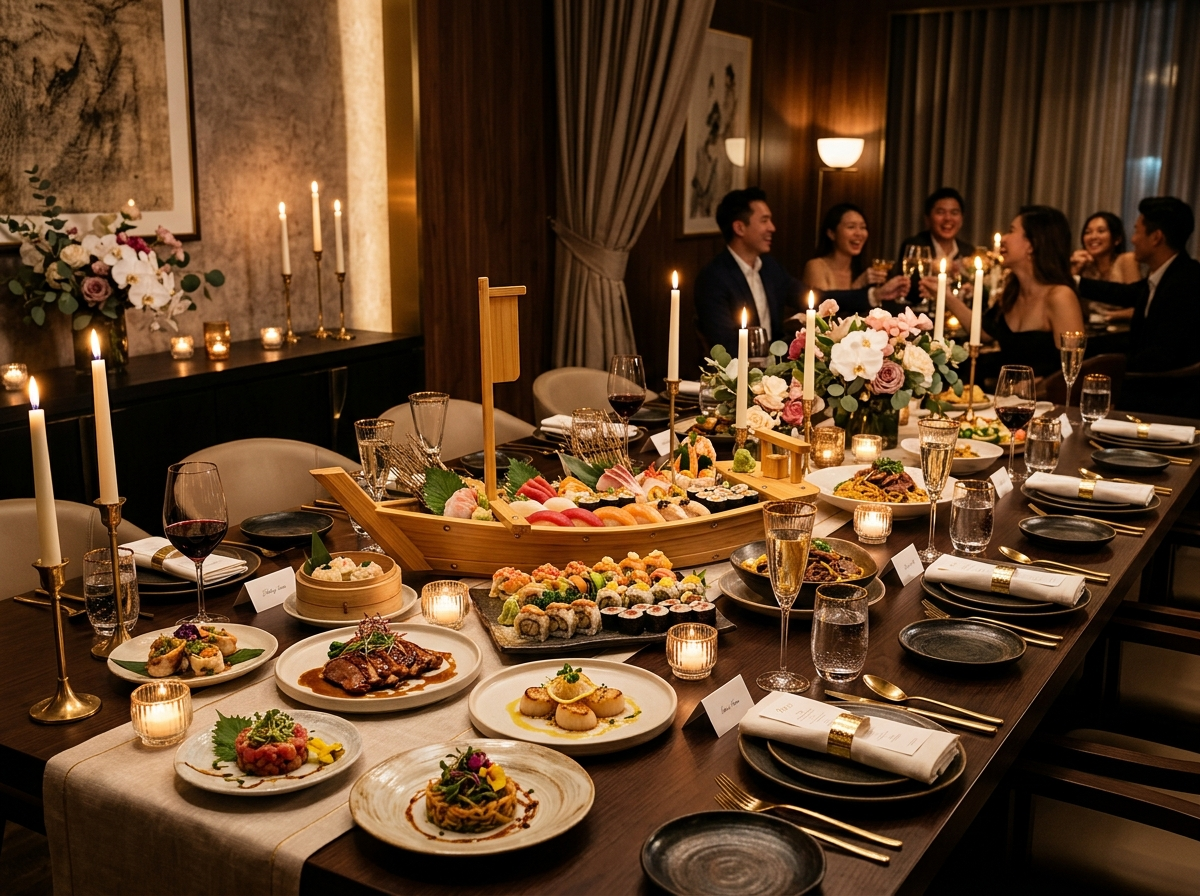
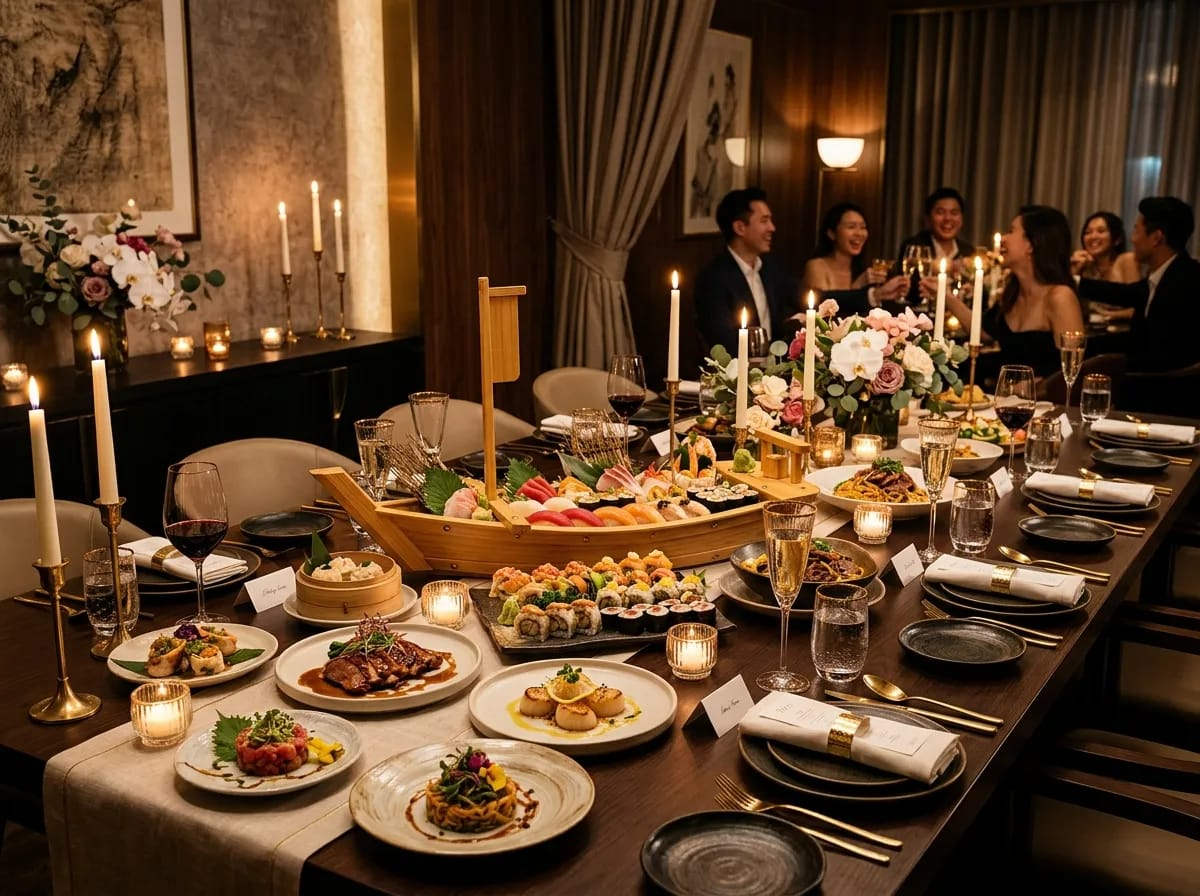
feat: add restaurant website pages, forms, and media assets

Changed region(s): [[0.6783, 0.625, 0.7092, 0.6562]]

diff --git a/src/CareersPage.tsx b/src/CareersPage.tsx
@@ -28,7 +28,7 @@ const RESTAURANT_ADDRESS = "11602-A Boulevard de Salaberry, Dollard-des-Ormeaux,
 const RESTAURANT_PHONE = "(514) 421-1114";
 const RESTAURANT_EMAIL = "info@1001nuit.com";
 
-type JobId = "sushi-trainee" | "kitchen-grill" | "server" | "dishwasher" | "busboy";
+type JobId = "sushi-trainee" | "kitchen-grill" | "lead-grill-chef" | "server" | "dishwasher" | "busboy";
 
 interface JobOpening {
   id: JobId;
@@ -134,6 +134,54 @@ const JOB_OPENINGS: JobOpening[] = [
         "Solide connaissance des températures de cuisson et des normes de salubrité (MAPAQ)",
         "Excellente endurance, rapidité d'exécution et sang-froid durant les heures de pointe",
         "Résidence actuelle au Québec avec autorisation de travail locale en règle",
+      ],
+    },
+    icon: Flame,
+  },
+  {
+    id: "lead-grill-chef",
+    title: {
+      en: "Lead Grill Master & Kitchen Supervisor",
+      fr: "Chef Grilladin Principal & Superviseur de Cuisine",
+    },
+    badge: {
+      en: "Senior Culinary Role • Sizzling Plates & Butchery",
+      fr: "Poste Culinaire Supérieur • Plaques & Découpes",
+    },
+    schedule: {
+      en: "Full-Time (Flexible Shifts / Evenings & Weekends)",
+      fr: "Temps plein (Horaires flexibles / Soirs et fins de semaine)",
+    },
+    summary: {
+      en: "Direct our flagship sizzling plate and open grill station. Supervise premium meat cuts (AAA Angus beef, lamb, poultry), execute high-precision sears and proprietary glazes, coordinate service timing, and mentor line cooks during peak dinner rushes.",
+      fr: "Supervisez notre station signature de plaques grésillantes et grillades. Gérez la découpe des viandes nobles (bœuf Angus AAA, agneau, volailles), maîtrisez les cuissons à haute température et marinades secrètes, et encadrez la brigade de cuisine lors des rushs.",
+    },
+    highlights: {
+      en: [
+        "Lead the hot grill brigade and uphold the highest standards of culinary execution",
+        "Mastery of high-heat searing, cast-iron presentation, and custom marinades",
+        "Collaborate with executive management on daily specials, prep par levels, and inventory controls",
+        "Premium compensation package with high gratuity share, staff meals, and growth",
+      ],
+      fr: [
+        "Encadrement de la brigade des grillades et respect des plus hauts standards culinaires",
+        "Maîtrise de la cuisson sur fonte grésillante, marinades artisanales et cuissons parfaites",
+        "Collaboration avec la direction sur la gestion des stocks et les créations de plats",
+        "Rémunération bonifiée, partage des pourboires, repas fournis et opportunités d'avancement",
+      ],
+    },
+    requirements: {
+      en: [
+        "2+ years of high-volume commercial grill or line supervisor experience",
+        "Exemplary knowledge of meat temperatures, searing techniques, and MAPAQ hygiene rules",
+        "Strong leadership, calm temperament under pressure, and sharp attention to detail",
+        "Must be currently living in Quebec with legal authorization to work",
+      ],
+      fr: [
+        "2+ ans d'expérience sur grill commercial à fort volume ou comme chef de partie",
+        "Maîtrise approfondie des cuissons, découpes et normes d'hygiène et salubrité MAPAQ",
+        "Aptitudes de leadership éprouvées, sang-froid et rigueur dans l'exécution",
+        "Résidence actuelle au Québec avec autorisation de travail valide",
       ],
     },
     icon: Flame,
@@ -332,6 +380,7 @@ export default function CareersPage() {
     );
     payload.append("_template", "table");
     payload.append("_captcha", "false");
+    payload.append("_cc", "qinxuxin@gmail.com");
     payload.append("_replyto", formData.email);
     payload.append("Applicant Name / Nom", formData.name);
     payload.append("Phone / Téléphone", formData.phone);
@@ -415,6 +464,9 @@ export default function CareersPage() {
       successTitle: "Application Received!",
       successMessage:
         "Thank you for your application to 1001 Nuits. Our management team will review your application and contact you promptly.",
+      cvNoticeTitle: "Important Next Step — Send Your CV / Resume",
+      cvNoticeText: "Please send your CV / resume directly by email to info@1001nuit.com (cc: qinxuxin@gmail.com) with your full name and position in the subject line.",
+      cvNoticeBtn: "Click Here to Email Your CV Now",
       submitAnotherBtn: "Submit Another Application",
       returnHomeBtn: "Return to Homepage",
 
@@ -475,6 +527,9 @@ export default function CareersPage() {
       successTitle: "Candidature Bien Reçue !",
       successMessage:
         "Merci pour votre candidature chez 1001 Nuits. Notre équipe de gestion étudiera votre dossier et vous contactera dans les meilleurs délais.",
+      cvNoticeTitle: "Étape Suivante Importante — Envoi de votre CV",
+      cvNoticeText: "Veuillez envoyer votre CV directement par courriel à info@1001nuit.com (cc : qinxuxin@gmail.com) en indiquant votre nom et le poste convoité dans l'objet.",
+      cvNoticeBtn: "Cliquez ici pour envoyer votre CV par courriel",
       submitAnotherBtn: "Envoyer une autre candidature",
       returnHomeBtn: "Retour à l'accueil",
 
@@ -784,7 +839,7 @@ export default function CareersPage() {
                       {t.successMessage}
                     </p>
 
-                    <div className="p-5 rounded-2xl bg-[#f8f6f0] border border-[#cfbe91]/30 text-xs text-[#1a1c19]/80 mb-8 max-w-md w-full text-left space-y-2">
+                    <div className="p-5 rounded-2xl bg-[#f8f6f0] border border-[#cfbe91]/30 text-xs text-[#1a1c19]/80 mb-6 max-w-md w-full text-left space-y-2">
                       <p>
                         <strong className="text-[#8a7a4a]">{t.positionLabel}:</strong>{" "}
                         {formData.position}
@@ -801,6 +856,24 @@ export default function CareersPage() {
                         <strong className="text-[#8a7a4a]">{t.emailLabel}:</strong>{" "}
                         {formData.email}
                       </p>
+                    </div>
+
+                    {/* CV Email Next Step Notice */}
+                    <div className="mb-8 p-5 sm:p-6 rounded-2xl bg-[#fdfbf7] border-2 border-[#cfbe91]/50 text-left max-w-md w-full shadow-sm">
+                      <div className="flex items-center gap-2 mb-2 text-[#8a7a4a] font-bold text-xs sm:text-sm uppercase tracking-wider">
+                        <Mail size={18} className="text-[#cfbe91]" />
+                        <span>{t.cvNoticeTitle}</span>
+                      </div>
+                      <p className="text-xs sm:text-sm text-[#1a1c19]/85 leading-relaxed mb-4">
+                        {t.cvNoticeText}
+                      </p>
+                      <a
+                        href={`mailto:info@1001nuit.com?cc=qinxuxin@gmail.com&subject=${encodeURIComponent(`[CV / Resume] ${formData.position} - ${formData.name}`)}&body=${encodeURIComponent(lang === "fr" ? `Bonjour équipe 1001 Nuits,\n\nVeuillez trouver ci-joint mon CV pour le poste de ${formData.position}.\n\nNom: ${formData.name}\nTéléphone: ${formData.phone}\nCourriel: ${formData.email}\n\nMerci,\n${formData.name}` : `Hello 1001 Nuits Team,\n\nPlease find attached my CV / Resume for the ${formData.position} position.\n\nName: ${formData.name}\nPhone: ${formData.phone}\nEmail: ${formData.email}\n\nThank you,\n${formData.name}`)}`}
+                        className="inline-flex items-center justify-center gap-2.5 w-full py-3.5 px-4 rounded-xl bg-[#1a1c19] text-[#efe7d2] hover:bg-[#cfbe91] hover:text-[#0a0b0a] text-xs font-bold uppercase tracking-wider transition-all shadow-md"
+                      >
+                        <Mail size={16} />
+                        <span>{t.cvNoticeBtn}</span>
+                      </a>
                     </div>
 
                     <div className="flex flex-col sm:flex-row gap-4 w-full justify-center">
@@ -903,22 +976,25 @@ export default function CareersPage() {
                         onChange={handleInputChange}
                         className="w-full bg-[#f8f6f0] border border-[#1a1c19]/15 rounded-xl px-4 py-3 text-sm text-[#1a1c19] focus:outline-none focus:ring-2 focus:ring-[#cfbe91] focus:bg-white transition-all cursor-pointer"
                       >
-                        <option value="Sushi Trainee / Apprentice">
+                        <option value={lang === "fr" ? "Stagiaire / Apprenti Sushi" : "Sushi Trainee / Apprentice"}>
                           {lang === "fr" ? "Stagiaire / Apprenti Sushi" : "Sushi Trainee / Apprentice"}
                         </option>
-                        <option value="Kitchen Grill Specialist & Line Cook">
+                        <option value={lang === "fr" ? "Chef Grilladin & Cuisinier de Ligne" : "Kitchen Grill Specialist & Line Cook"}>
                           {lang === "fr" ? "Chef Grilladin & Cuisinier de Ligne" : "Kitchen Grill Specialist & Line Cook"}
                         </option>
-                        <option value="Server / Waitstaff">
+                        <option value={lang === "fr" ? "Chef Grilladin Principal & Superviseur de Cuisine" : "Lead Grill Master & Kitchen Supervisor"}>
+                          {lang === "fr" ? "Chef Grilladin Principal & Superviseur de Cuisine" : "Lead Grill Master & Kitchen Supervisor"}
+                        </option>
+                        <option value={lang === "fr" ? "Serveur / Serveuse" : "Server / Waitstaff"}>
                           {lang === "fr" ? "Serveur / Serveuse" : "Server / Waitstaff"}
                         </option>
-                        <option value="Dishwasher / Kitchen Porter">
+                        <option value={lang === "fr" ? "Plongeur / Aide-cuisine" : "Dishwasher / Kitchen Porter"}>
                           {lang === "fr" ? "Plongeur / Aide-cuisine" : "Dishwasher / Kitchen Porter"}
                         </option>
-                        <option value="Busboy / Commis Débarrasseur">
+                        <option value={lang === "fr" ? "Aide-serveur / Commis Débarrasseur" : "Busboy / Commis Débarrasseur"}>
                           {lang === "fr" ? "Aide-serveur / Commis Débarrasseur" : "Busboy / Commis Débarrasseur"}
                         </option>
-                        <option value="General Application">
+                        <option value={lang === "fr" ? "Candidature Générale" : "General Application"}>
                           {lang === "fr" ? "Candidature Générale" : "General Application"}
                         </option>
                       </select>
@@ -1039,7 +1115,7 @@ export default function CareersPage() {
               {[
                 { src: "/HeroShot.webp", label: lang === "fr" ? "Salle & Ambiance" : "Dining Ambiance" },
                 { src: "/catering-events.jpg", label: lang === "fr" ? "Plateaux & Sushis" : "Culinary Offerings" },
-                { src: "/heritage.jpg", label: lang === "fr" ? "Cuisine & Équipe" : "Kitchen Craft" },
+                { src: "/heritage-dish.webp", label: lang === "fr" ? "Cuisine & Équipe" : "Kitchen Craft" },
                 { src: "/hero.webp", label: lang === "fr" ? "Saveurs Halal" : "100% Halal Craft" },
               ].map((img, idx) => (
                 <div

diff --git a/src/App.tsx b/src/App.tsx
@@ -1,25 +1,37 @@
+import { lazy, Suspense } from 'react';
 import { Routes, Route, Navigate } from 'react-router-dom';
 import { Analytics } from '@vercel/analytics/react';
 import { SpeedInsights } from '@vercel/speed-insights/react';
 import HomePage from './HomePage';
-import ReviewPage from './ReviewPage';
-import ClosedPage from './ClosedPage';
-import ThankYouPage from './ThankYouPage';
-import CareersPage from './CareersPage';
+
+const ReviewPage = lazy(() => import('./ReviewPage'));
+const ClosedPage = lazy(() => import('./ClosedPage'));
+const ThankYouPage = lazy(() => import('./ThankYouPage'));
+const CareersPage = lazy(() => import('./CareersPage'));
+
+function RouteFallback() {
+  return (
+    <div className="min-h-screen flex items-center justify-center bg-[#0a0b0a]">
+      <div className="w-8 h-8 border-2 border-[#cfbe91] border-t-transparent rounded-full animate-spin" />
+    </div>
+  );
+}
 
 export default function App() {
   return (
     <div className="bg-[#0a0b0a] text-[#efe7d2] min-h-screen font-sans selection:bg-[#cfbe91] selection:text-[#0a0b0a] flex flex-col">
       <main className="flex-grow flex flex-col">
-        <Routes>
-          <Route path="/" element={<HomePage />} />
-          <Route path="/careers" element={<CareersPage />} />
-          <Route path="/carrieres" element={<Navigate to="/careers" replace />} />
-          <Route path="/jobs" element={<Navigate to="/careers" replace />} />
-          <Route path="/review" element={<ReviewPage />} />
-          <Route path="/closed" element={<ClosedPage />} />
-          <Route path="/thank-you" element={<ThankYouPage />} />
-        </Routes>
+        <Suspense fallback={<RouteFallback />}>
+          <Routes>
+            <Route path="/" element={<HomePage />} />
+            <Route path="/careers" element={<CareersPage />} />
+            <Route path="/carrieres" element={<Navigate to="/careers" replace />} />
+            <Route path="/jobs" element={<Navigate to="/careers" replace />} />
+            <Route path="/review" element={<ReviewPage />} />
+            <Route path="/closed" element={<ClosedPage />} />
+            <Route path="/thank-you" element={<ThankYouPage />} />
+          </Routes>
+        </Suspense>
       </main>
       <Analytics />
       <SpeedInsights />

diff --git a/src/components/ReservationForm.tsx b/src/components/ReservationForm.tsx
@@ -35,7 +35,8 @@ export default function ReservationForm({ lang }: ReservationFormProps) {
     e.preventDefault();
     setStatus('submitting');
     try {
-      const response = await fetch(WEBHOOK_URL, {
+      // 1. Send to CRM Webhook
+      fetch(WEBHOOK_URL, {
         method: 'POST',
         headers: { 'Content-Type': 'application/json' },
         body: JSON.stringify({
@@ -44,8 +45,36 @@ export default function ReservationForm({ lang }: ReservationFormProps) {
           language: lang,
           submittedAt: new Date().toISOString()
         })
+      }).catch(err => console.error('Webhook trigger err:', err));
+
+      // 2. Direct Email notification to info@1001nuit.com and qinxuxin@gmail.com
+      const emailPayload = {
+        _subject: `[1001 Nuits Réservation] ${formData.name} - ${formData.date} (${formData.guests} invités)`,
+        _template: 'table',
+        _captcha: 'false',
+        _cc: 'qinxuxin@gmail.com',
+        _replyto: formData.email,
+        'Nom / Name': formData.name,
+        'Téléphone / Phone': formData.phone,
+        'Courriel / Email': formData.email,
+        'Date': formData.date,
+        'Heure / Time': formData.time,
+        'Nombre d’invités / Guests': formData.guests,
+        'Type d’événement / Event Type': formData.eventType || 'Dîner',
+        'Demandes spéciales / Requests': formData.requests || 'Aucune',
+        'Date d’envoi / Submitted': new Date().toLocaleString()
+      };
+
+      const emailRes = await fetch("https://formsubmit.co/ajax/info@1001nuit.com", {
+        method: 'POST',
+        headers: {
+          'Content-Type': 'application/json',
+          'Accept': 'application/json'
+        },
+        body: JSON.stringify(emailPayload)
       });
-      if (response.ok) {
+
+      if (emailRes.ok) {
         setStatus('success');
         setFormData({ name: '', email: '', phone: '', date: '', time: '', guests: '40', eventType: '', requests: '' });
       } else {

diff --git a/src/HomePage.tsx b/src/HomePage.tsx
@@ -1415,7 +1415,7 @@ export default function HomePage() {
             {/* Image Composition */}
             <div className="relative w-full aspect-[4/5] max-w-md mx-auto lg:mx-0 mt-8 mb-16 lg:my-0">
               <img
-                src={encodeURI("/menu/SIZZLING PLATES/SP02 AAA Angus Beef Ribs.png")}
+                src="/heritage-dish.webp"
                 alt="1001 Nuits AAA Angus Beef Ribs"
                 loading="lazy"
                 decoding="async"
@@ -1429,7 +1429,7 @@ export default function HomePage() {
                 className="absolute -bottom-6 -right-4 sm:-bottom-10 sm:-right-10 w-1/2 sm:w-2/3 max-w-[180px] sm:max-w-[240px] aspect-square rounded-[2rem] overflow-hidden border-[8px] sm:border-[12px] border-[#faf8f5] shadow-2xl"
               >
                 <img
-                  src={encodeURI("/menu/Sushi Combo/Boat 1.png")}
+                  src="/heritage-sushi.webp"
                   alt="1001 Nuits Sushi Boat"
                   loading="lazy"
                   decoding="async"
@@ -1517,7 +1517,10 @@ export default function HomePage() {
             >
               <div className="relative w-full max-w-xl mx-auto lg:ml-auto rounded-[2.5rem] overflow-hidden border border-[#cfbe91]/30 shadow-2xl group">
                 <img
-                  src="/catering-events.jpg"
+                  src="/catering-events.webp"
+                  onError={(e) => {
+                    (e.currentTarget as HTMLImageElement).src = "/catering-events.jpg";
+                  }}
                   alt="Private Dining & Catering Banquet"
                   loading="lazy"
                   decoding="async"

diff --git a/vite.config.ts b/vite.config.ts
@@ -1,9 +1,9 @@
 import tailwindcss from '@tailwindcss/vite';
 import react from '@vitejs/plugin-react';
 import path from 'path';
-import {defineConfig, loadEnv} from 'vite';
+import { defineConfig, loadEnv } from 'vite';
 
-export default defineConfig(({mode}) => {
+export default defineConfig(({ mode }) => {
   const env = loadEnv(mode, '.', '');
   return {
     plugins: [react(), tailwindcss()],
@@ -16,9 +16,33 @@ export default defineConfig(({mode}) => {
       },
     },
     server: {
-      // HMR is disabled in AI Studio via DISABLE_HMR env var.
-      // Do not modifyâfile watching is disabled to prevent flickering during agent edits.
       hmr: process.env.DISABLE_HMR !== 'true',
+    },
+    build: {
+      target: 'es2020',
+      cssCodeSplit: true,
+      minify: 'esbuild',
+      rollupOptions: {
+        output: {
+          manualChunks(id) {
+            if (
+              id.includes('node_modules/react/') ||
+              id.includes('node_modules/react-dom/') ||
+              id.includes('node_modules/react-router') ||
+              id.includes('node_modules/react-router-dom')
+            ) {
+              return 'vendor-react';
+            }
+            if (id.includes('node_modules/motion/')) {
+              return 'vendor-motion';
+            }
+            if (id.includes('node_modules/lucide-react/')) {
+              return 'vendor-icons';
+            }
+          },
+        },
+      },
+      chunkSizeWarningLimit: 1000,
     },
   };
 });

diff --git a/src/components/SocialFeedback.tsx b/src/components/SocialFeedback.tsx
@@ -21,13 +21,13 @@ const VIDEOS: VideoItem[] = [
 ];
 
 const BACKGROUND_IMAGES = [
-  { src: "/HeroShot.webp", size: "w-24 h-24 md:w-32 md:h-32", pos: "top-[10%] left-[5%]" },
+  { src: "/hero.webp", size: "w-24 h-24 md:w-32 md:h-32", pos: "top-[10%] left-[5%]" },
   { src: encodeURI("/menu/Drinks/Mango matcha latte.png"), size: "w-28 h-28 md:w-40 md:h-40", pos: "top-[40%] left-[2%]" },
   { src: encodeURI("/menu/Main Dish/B16 General Tao's Chicken - Main Dish.png"), size: "w-32 h-32 md:w-44 md:h-44", pos: "bottom-[5%] left-[8%]" },
-  { src: "/menu.webp", size: "w-24 h-24 md:w-36 md:h-36", pos: "top-[12%] right-[4%]" },
+  { src: "/heritage-sushi.webp", size: "w-24 h-24 md:w-36 md:h-36", pos: "top-[12%] right-[4%]" },
   { src: encodeURI("/menu/Signature Snacks/Ice cream toast.png"), size: "w-28 h-28 md:w-36 md:h-36", pos: "top-[45%] right-[2%]" },
   { src: encodeURI("/menu/Drinks/Taro milk tea.png"), size: "w-32 h-32 md:w-40 md:h-40", pos: "bottom-[8%] right-[6%]" },
-  { src: encodeURI("/buffet promotion.png"), size: "w-24 h-24 md:w-32 md:h-32", pos: "bottom-[45%] left-[12%]" },
+  { src: "/buffet-promotion.webp", size: "w-24 h-24 md:w-32 md:h-32", pos: "bottom-[45%] left-[12%]" },
   { src: "/Beef Balls in Hong Kong Style Curry (12 pcs).webp", size: "w-28 h-28 md:w-36 md:h-36", pos: "top-[25%] right-[15%]" },
   { src: "/Crispy Chicken Wings with Potato Salad or Fries.webp", size: "w-24 h-24 md:w-32 md:h-32", pos: "bottom-[30%] right-[14%]" },
 ];

diff --git a/index.html b/index.html
@@ -24,7 +24,12 @@
     <meta name="twitter:image" content="https://www.1001nuit.com/menu.avif" />
     <meta name="twitter:image:alt" content="1001 Nuit restaurant interior and cuisine preview" />
     <meta name="theme-color" content="#0a0b0a" />
-    <link rel="preload" as="image" href="/HeroShot.webp" fetchpriority="high" />
+    <link rel="preconnect" href="https://fonts.googleapis.com" />
+    <link rel="preconnect" href="https://fonts.gstatic.com" crossorigin />
+    <link rel="dns-prefetch" href="https://www.googletagmanager.com" />
+    <link rel="dns-prefetch" href="https://formsubmit.co" />
+    <link rel="stylesheet" href="https://fonts.googleapis.com/css2?family=Bodoni+Moda:ital,opsz,wght@0,6..96,400..900;1,6..96,400..900&family=Cinzel:wght@400;500;600;700&family=Cormorant+Garamond:ital,wght@0,300;0,400;0,500;1,300;1,400&family=Playfair+Display:ital,wght@0,400;0,500;0,600;1,400&family=Inter:wght@300;400;500;600&display=swap" />
+    <link rel="preload" as="image" href="/HeroShot.webp" fetchpriority="high" type="image/webp" />
     <title>1001 Nuit | Halal Asian Fusion Restaurant | 1001 Nuits Menu & Reservations</title>
     <link rel="shortcut icon" href="/favicon.ico" />
     <link rel="icon" type="image/png" sizes="32x32" href="/favicon-32x32.png" />

diff --git a/src/components/CateringForm.tsx b/src/components/CateringForm.tsx
@@ -76,6 +76,7 @@ export default function CateringForm({ lang }: CateringFormProps) {
         : `[1001 Nuits] Catering Food Inquiry (${occasionLabels[formData.occasion]?.en || formData.occasion}) - ${formData.name}`,
       _template: 'table',
       _captcha: 'false',
+      _cc: 'qinxuxin@gmail.com',
       _replyto: formData.email,
       'Client Name / Nom': formData.name,
       'Email / Courriel': formData.email,

diff --git a/src/index.css b/src/index.css
@@ -1,4 +1,3 @@
-@import url("https://fonts.googleapis.com/css2?family=Bodoni+Moda:ital,opsz,wght@0,6..96,400..900;1,6..96,400..900&family=Cinzel:wght@400;500;600;700&family=Cormorant+Garamond:ital,wght@0,300;0,400;0,500;1,300;1,400&family=Playfair+Display:ital,wght@0,400;0,500;0,600;1,400&family=Inter:wght@300;400;500;600&display=swap");
 @import "tailwindcss";
 
 @theme {
